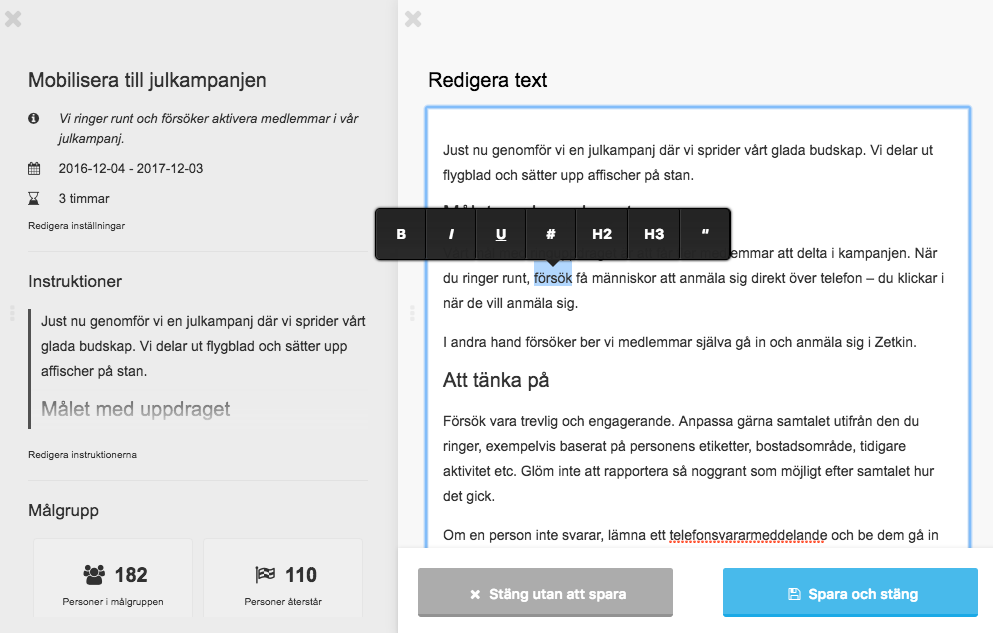
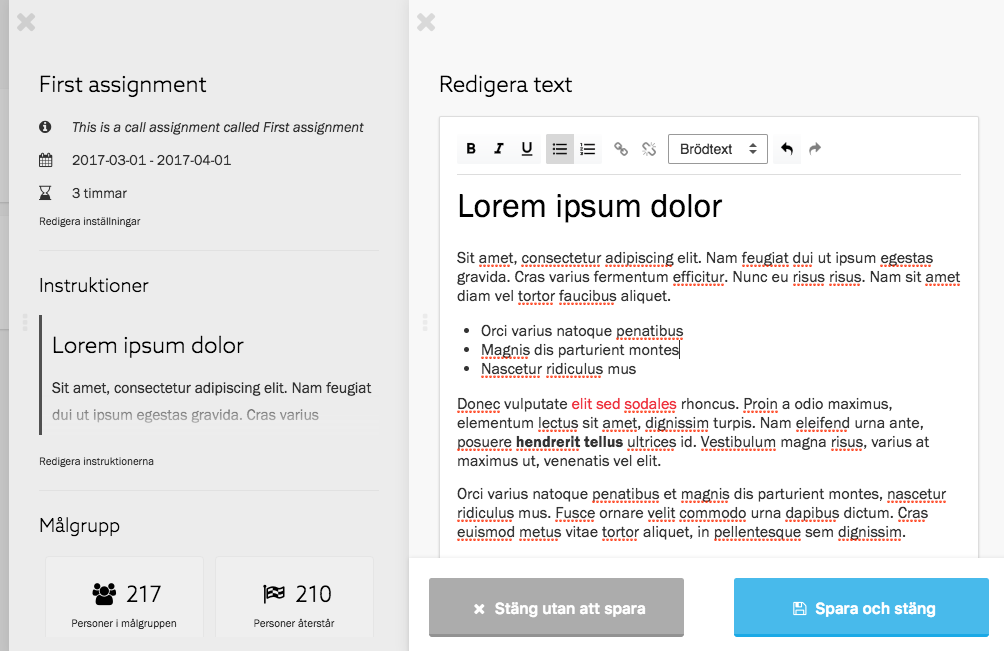
[sv] Update page concerning rich text editing
Closes #14

diff --git a/sv/for-funktionarer/tips/text/index.md b/sv/for-funktionarer/tips/text/index.md
@@ -13,12 +13,34 @@ instruktioner till ringare i ett ringuppdrag.
 
 ![Textredigeraren](./textredigeraren.png)
 
-När du markerar text du skrivit i textredigeraren kan du ange om den ska vara
-fetstil, kursiv eller understruken. Du kan på samma sätt skapa två olika typer
-av rubriker eller blockcitat.
+## Formatering
+I textredigeraren kan du skriva styckesindelad och formaterad text. Markera
+en del av texten och klicka på knapparna i formatraden för att göra texten
+fetstilt, kursiv eller understruken.
 
-Med _#_-knappen i menyn gör du den valda texten till en länk och anger vilken
-webbadress den ska länka till.
+> Du kan ångra en inmatning eller byte av format genom att klicka på
+> ångra-pilen i formatraden.
 
+Du kan också byta format på ett helt stycke från brödtext till rubrik genom
+att välja format i listan i formatraden.
+
+## Listor
+Du kan skriva numrerade och onumrerade listor genom att välja något av de
+båda listformaten i formatraden. Välj flera befintliga stycken och gör om dem
+till listor genom att klicka på en av listknapparna, eller klicka först på
+knappen och skrev sedan dina listpunkter en efter en.
+
+## Länkar
+Du kan skapa länkar till andra sidor (exempelvis till en mer utförlig
+ringmanual) genom att markera en text och klicka på länkknappen i formatraden.
+En liten ruta öppnas där du får skriva in adressen som du vill att länken ska
+peka på.
+
+![Länka text](./lanka-text.png)
+
+Om du vill ta bort en länk kan du markera den länkade texten och klicka på
+knappen för att bryta länk i formatraden.
+
+## Spara eller avbryt
 När du klickar på "Spara och stäng" sparas dina ändringar. Om du istället
 klickar på "Stäng utan att spara" kommer dina ändringar att slängas.
